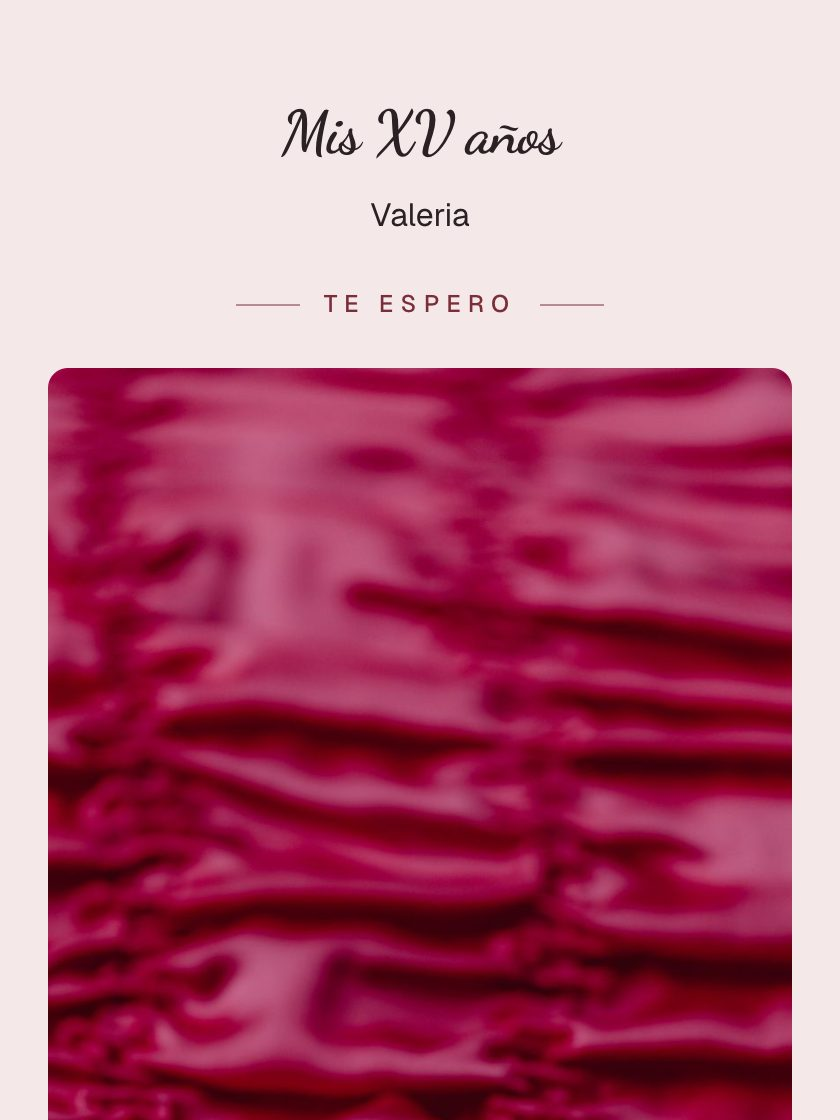
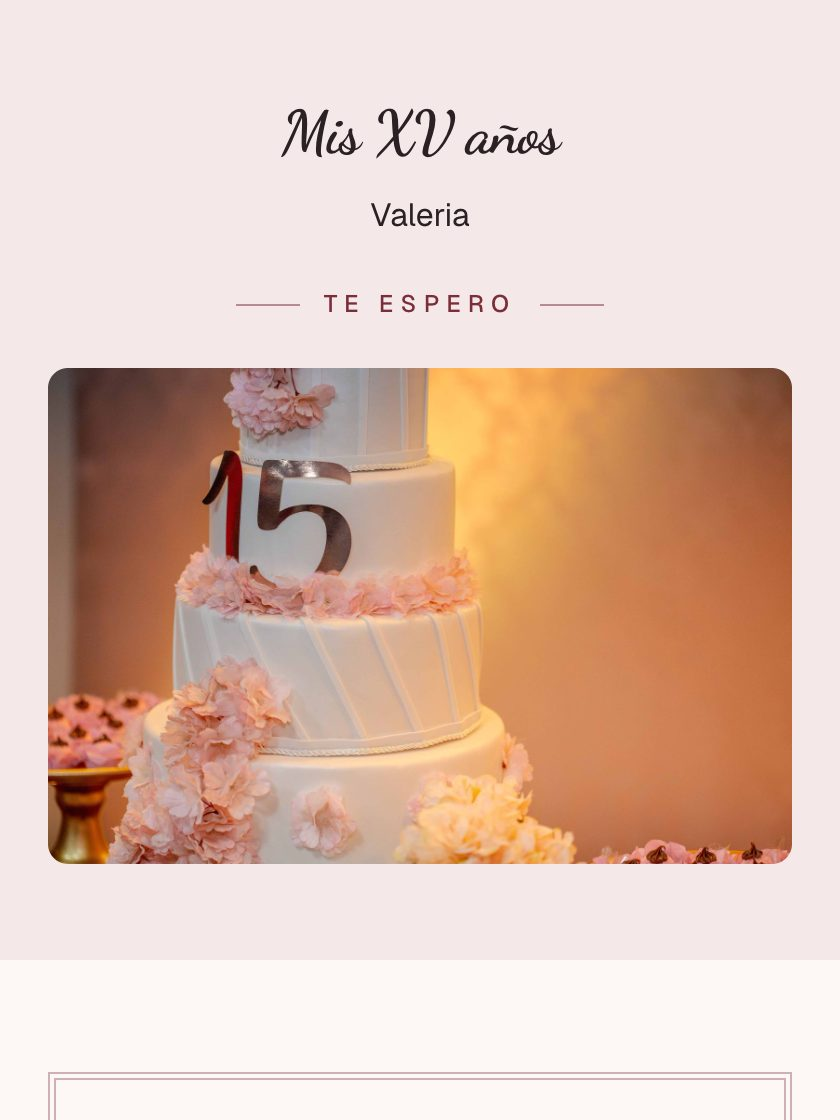
feat(piloto): la miniatura de Quince, y el piloto llega a 13 de 15
El dev aplico la `0036`. Verificado por efecto antes de capturar: nombre
«Quince», variante split, foto `xv-pastel-quince.jpg`, proporcion 3/2.

La miniatura muestra el pastel con el **15** a la vista. Repuntuada:

  antes (seda rosa)      8 7 [6] 8 8 8  ->  7.5  ❌
  ahora (pastel del 15)  8 8 [9] 8 8 8  ->  8.2  ✅

El salto esta EXACTAMENTE donde tenia que estar —Event Relevance de 6 a 9— y las
otras cinco columnas casi no se mueven. Eso valida el diagnostico del §19.6: el
problema de esta plantilla no era la calidad de la imagen ni la composicion,
era que la imagen no decia de que evento hablaba.

Dije que esperaba que cruzara pero que prefería medirlo antes que prometerlo,
despues de fallar el pronostico del marco. Medido: cruza.

PILOTO EN 13 DE 15. Siguen fuera `boda-marco-nuestro` (7.3, su foto es un
marcador para sustituir) y `comunion-cinta` (5.8, sin fotografia a proposito).
Las dos necesitan una decision de producto, no otra iteracion de lo mismo.

Regresion: los 2 md5 de control identicos, y `xv-corona` recapturada sin cambiar
un byte. REVISION_MINIATURAS sube en este commit.

Suite 599.

diff --git a/src/lib/invitations/template-preview.ts b/src/lib/invitations/template-preview.ts
@@ -67,4 +67,4 @@ export const ESCALA_CAPTURA = 2;
  * optimizador y la del navegador, y evita tener que renombrar 50 archivos o
  * volver a escribir 50 URLs en la BD en cada regeneración.
  */
-export const REVISION_MINIATURAS = "202609082158";
+export const REVISION_MINIATURAS = "202609082215";

diff --git a/docs/TEMPLATE_VISUAL_RESEARCH_V2.md b/docs/TEMPLATE_VISUAL_RESEARCH_V2.md
@@ -1020,6 +1020,38 @@ la impresión de que «se ve mejor».
 
 ---
 
+## 19.7 `xv-seda` con un objeto de XV (2026-09-08)
+
+Última pieza del ciclo. La `0035` la había convertido a fotografía y **empeoró**
+—de 7.7 a 7.5—, la única del piloto que bajó, porque su imagen era una TEXTURA.
+La `0036` le pone un OBJETO: el pastel de tres pisos con el **15**.
+
+| | VQ | Uniq | ER | Comp | PF | MP | prom | |
+|---|---|---|---|---|---|---|---|---|
+| antes (seda rosa) | 8 | 7 | **6** | 8 | 8 | 8 | 7.5 | ❌ |
+| ahora (pastel del 15) | 8 | 8 | **9** | 8 | 8 | 8 | **8.2** | ✅ |
+
+El salto está donde tenía que estar: **Event Relevance de 6 a 9**. Las otras
+cinco columnas se mueven poco o nada, que es justo lo que valida el diagnóstico
+del §19.6 — el problema de esta plantilla no era la calidad de la imagen ni la
+composición, era que la imagen no decía de qué evento hablaba.
+
+**El piloto queda en 13 de 15.**
+
+Siguen fuera dos, y por razones distintas:
+
+| plantilla | prom | por qué |
+|---|---|---|
+| `boda-marco-nuestro` | 7.3 | su foto es un **marcador** para que el anfitrión la sustituya: la miniatura no vende lo que la plantilla es |
+| `comunion-cinta` | 5.8 | **sin fotografía**, y se decidió no forzársela: el stock de primera comunión son menores |
+
+Las dos necesitan una decisión de producto, no otra iteración de lo mismo:
+la primera, si una plantilla puede venderse con una foto que está para
+sustituirse; la segunda, si se invierte en ilustración —la vía que el §19.1 dejó
+abierta y que nadie ha tomado.
+
+---
+
 ## ⛔ FIN DE LA INVESTIGACIÓN
 
 No se ha modificado ninguna plantilla, ni descargado ninguna imagen, ni tocado
